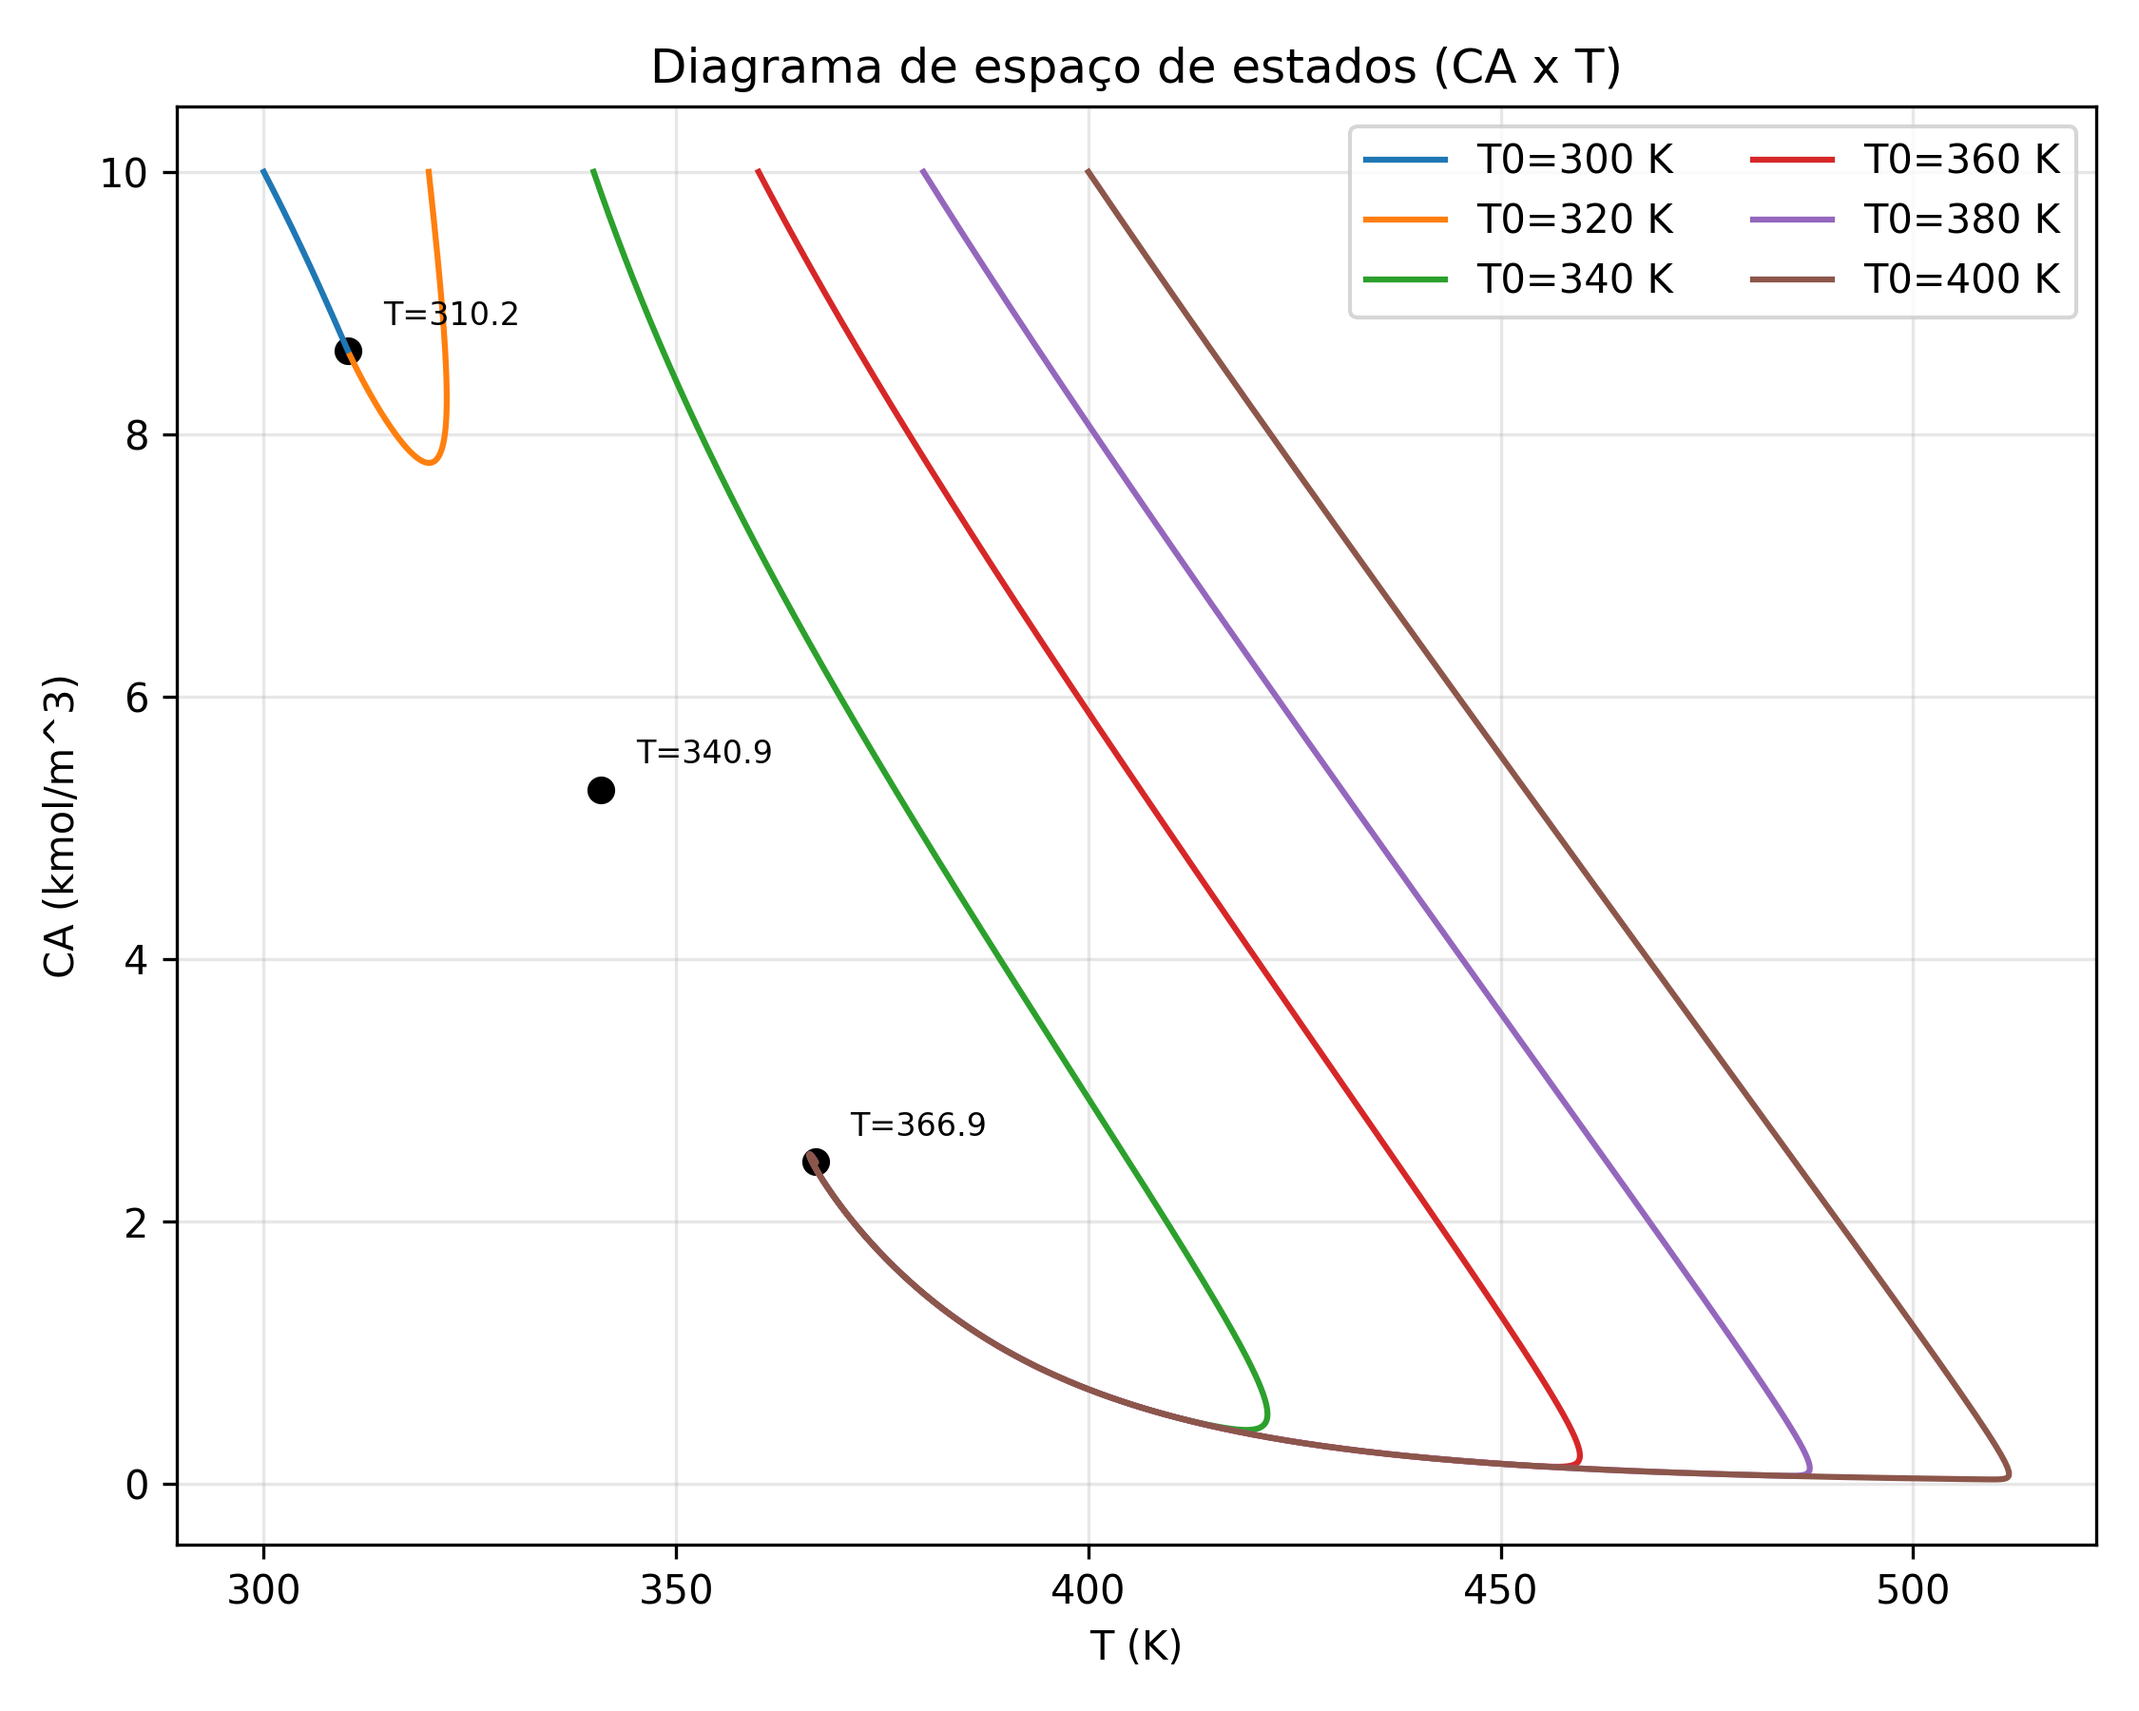
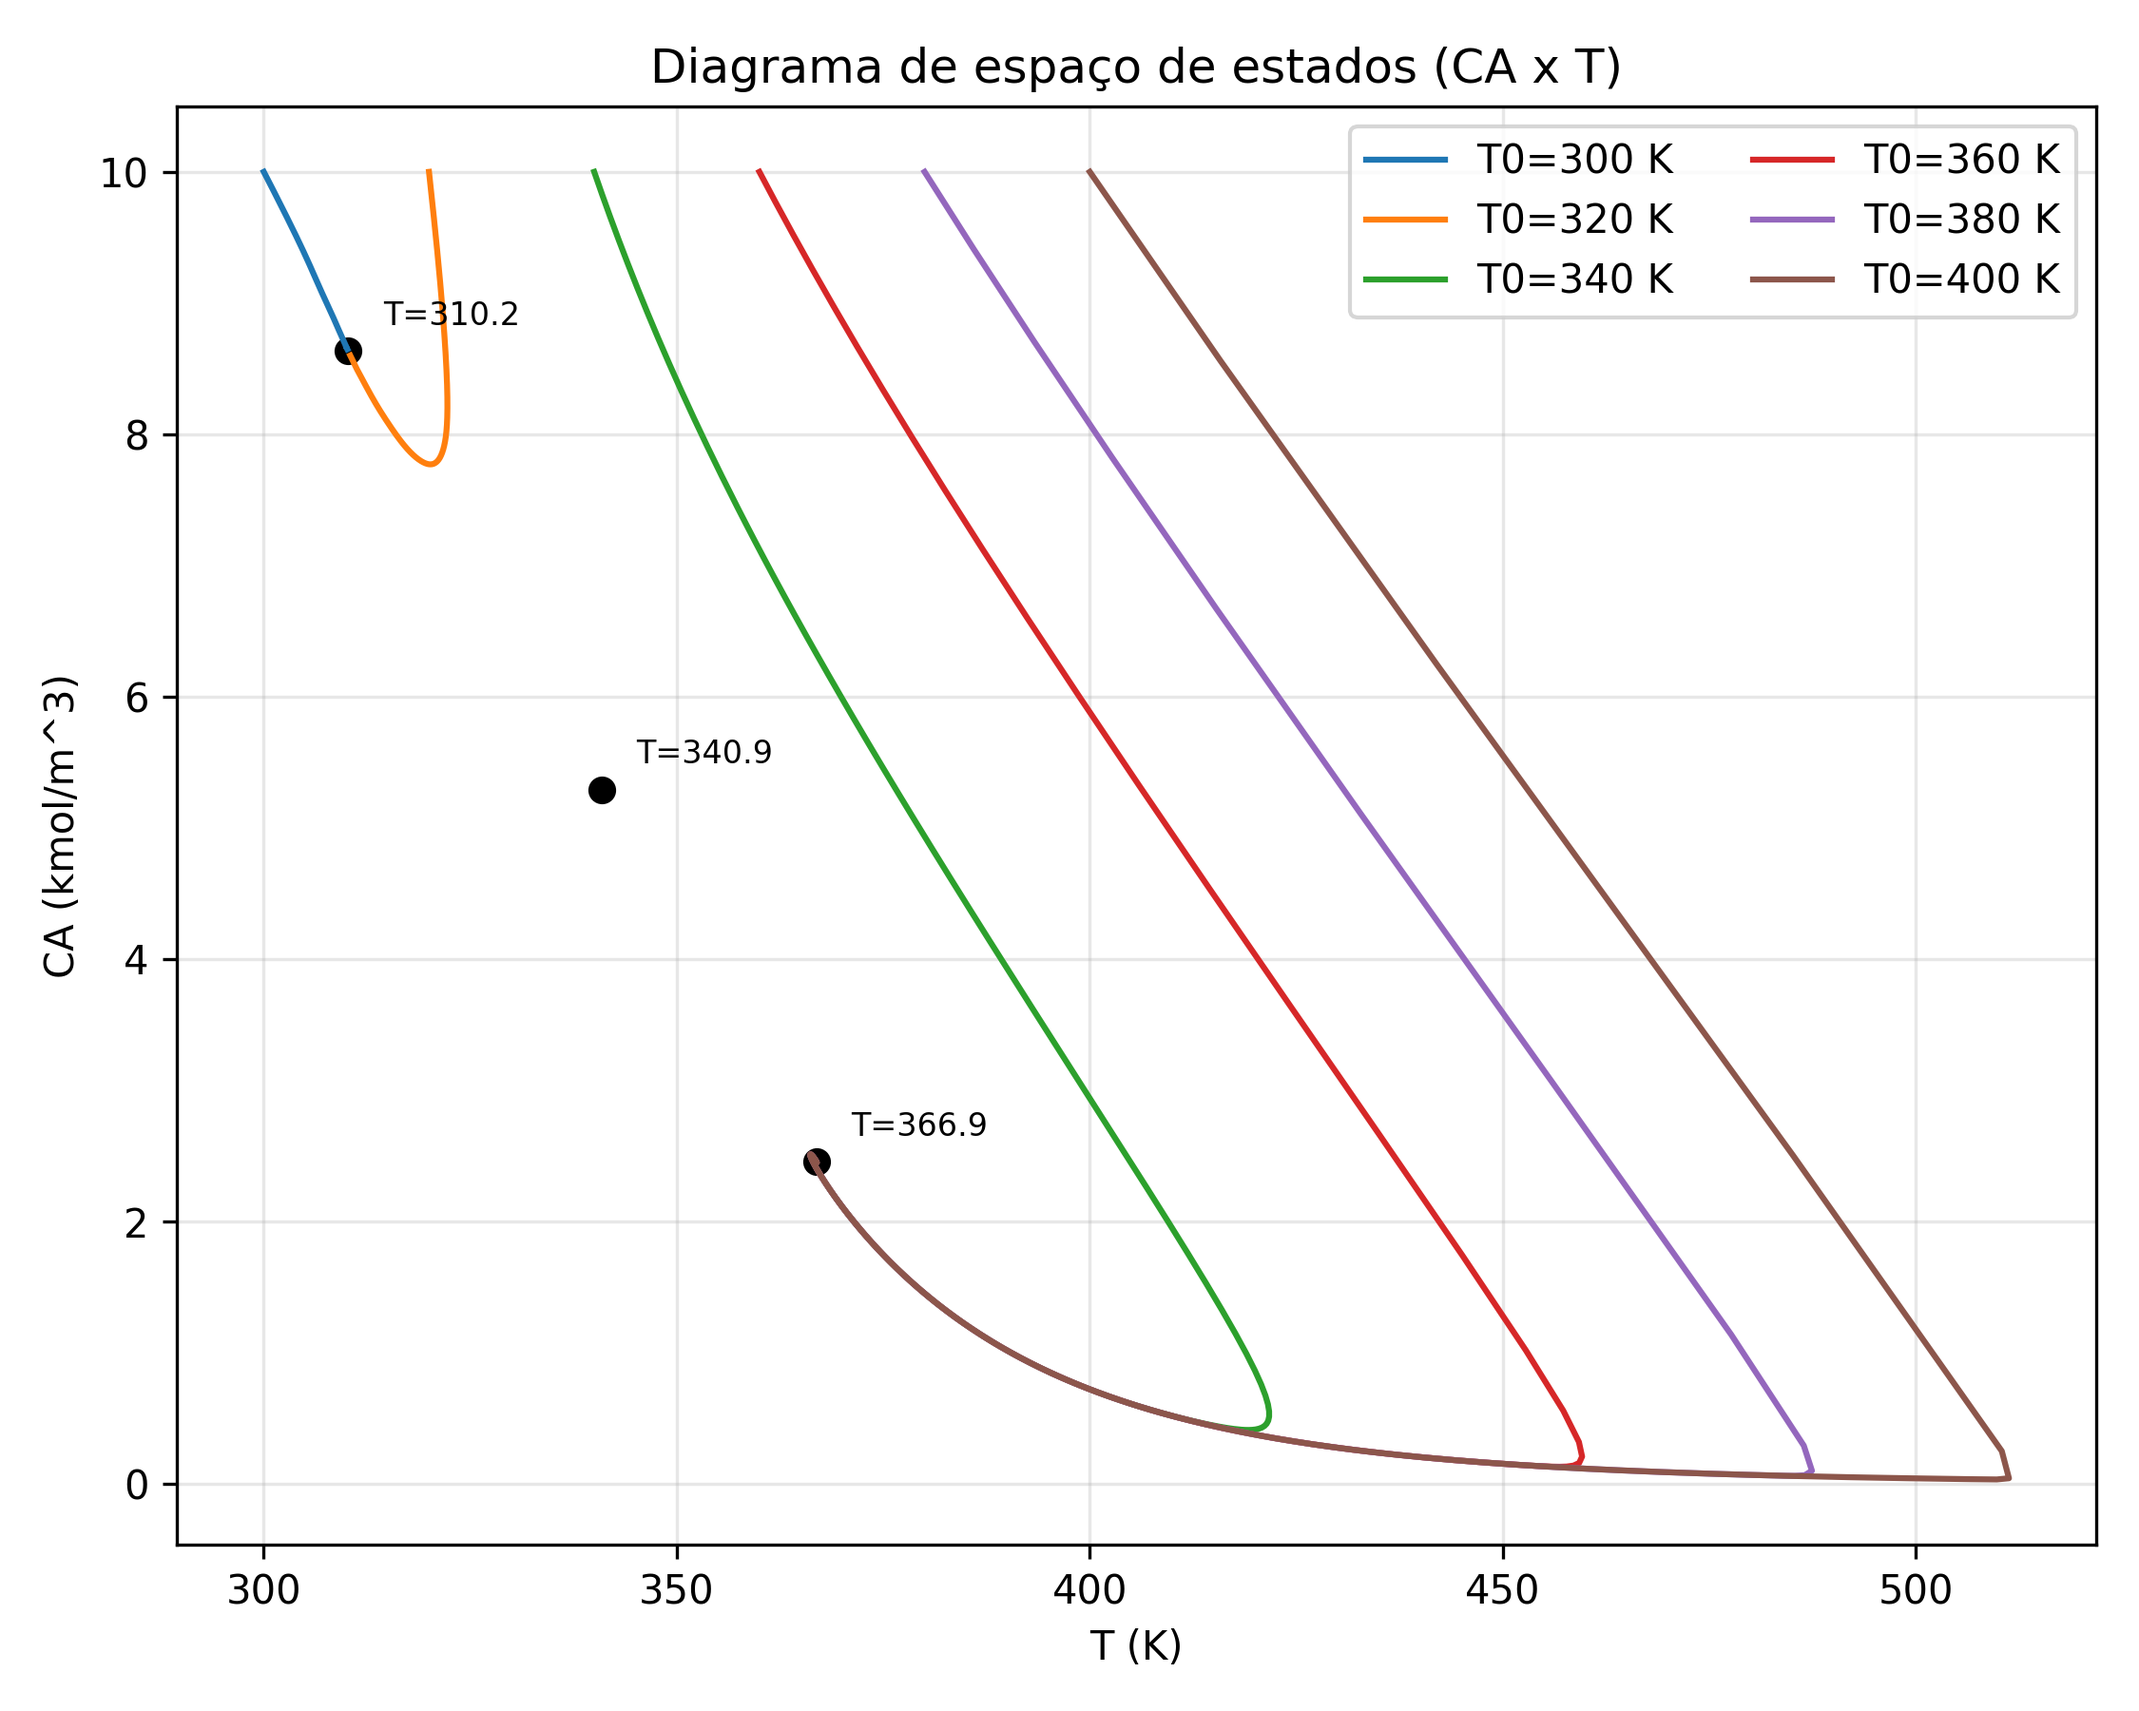
ok

diff --git a/exercicios sala de aula/aula03/simulacao_dinamica.py b/exercicios sala de aula/aula03/simulacao_dinamica.py
@@ -1,5 +1,7 @@
 import numpy as np
 import matplotlib.pyplot as plt
+from scipy.integrate import solve_ivp
+from scipy.optimize import brentq
 import os
 
 try:
@@ -34,35 +36,30 @@ k  = lambda T: k0*np.exp(-E/(R*T))
 def odes(t, y):
     CA, T = y
     r = k(T) * CA
-    dCAdt = (q/V)*(CAf - CA) - r
-    dTdt  = (q*Cp*(Tf - T) + V*r*dH - hA*(T - Tcf)) / (V*Cp)
+    dCAdt = q*CAf/V - q*CA/V - r
+    dTdt  = q*Tf/V - q*T/V + r*dH/Cp - (hA*(T - Tcf))/(V*Cp)
     return np.array([dCAdt, dTdt])
 
-# Integrador RK4
+# Integração numérica com solver pronto
 
-def rk4(f, y0, t):
-    y = np.zeros((len(t), len(y0)))
-    y[0] = y0
-    for i in range(len(t)-1):
-        h = t[i+1]-t[i]
-        k1 = f(t[i], y[i])
-        k2 = f(t[i]+0.5*h, y[i]+0.5*h*k1)
-        k3 = f(t[i]+0.5*h, y[i]+0.5*h*k2)
-        k4 = f(t[i]+h, y[i]+h*k3)
-        y[i+1] = y[i] + (h/6.0)*(k1 + 2*k2 + 2*k3 + k4)
-    return y
-
-# Tempo e condições iniciais
 T_end = 10.0  # h
-n = 18000
+n = 1000
 Ttime = np.linspace(0, T_end, n)
 T0_list = [300, 320, 340, 360, 380, 400]
 CA0 = CAf
 
 sols = []
 for T0 in T0_list:
-    Y = rk4(odes, np.array([CA0, float(T0)]), Ttime)
-    sols.append((T0, Ttime, Y))
+    sol = solve_ivp(
+        odes,
+        (Ttime[0], Ttime[-1]),
+        np.array([CA0, float(T0)]),
+        t_eval=Ttime,
+    )
+    if not sol.success:
+        raise RuntimeError(f"Falha na integração para T0={T0}: {sol.message}")
+    sols.append((T0, sol.t, sol.y.T))
+
 # Estados estacionários para marcar no plano de fase
 CA_ss = lambda T: ((q/V)*CAf) / (k(T) + (q/V))
 F = lambda T: V*k(T)*CA_ss(T)*dH - (q*Cp*(T-Tf) + hA*(T-Tcf))
@@ -71,17 +68,17 @@ F = lambda T: V*k(T)*CA_ss(T)*dH - (q*Cp*(T-Tf) + hA*(T-Tcf))
 Ts = np.linspace(250, 900, 3000)
 Fv = F(Ts)
 roots = []
+from scipy.optimize import brentq
 for i in range(len(Ts) - 1):
     if Fv[i] * Fv[i + 1] < 0:
         a, b = Ts[i], Ts[i + 1]
-        # bisseção refinada
-        for _ in range(80):
-            m = 0.5 * (a + b)
-            if F(a) * F(m) <= 0:
-                b = m
-            else:
-                a = m
-        roots.append(0.5 * (a + b))
+        try:
+            root = brentq(F, a, b)
+            # evitar raízes duplicadas devido a resoluções numéricas
+            if not any(abs(root - r) < 1e-6 for r in roots):
+                roots.append(root)
+        except ValueError:
+            continue
 roots = sorted(roots)
 
 # Plot T(t)
